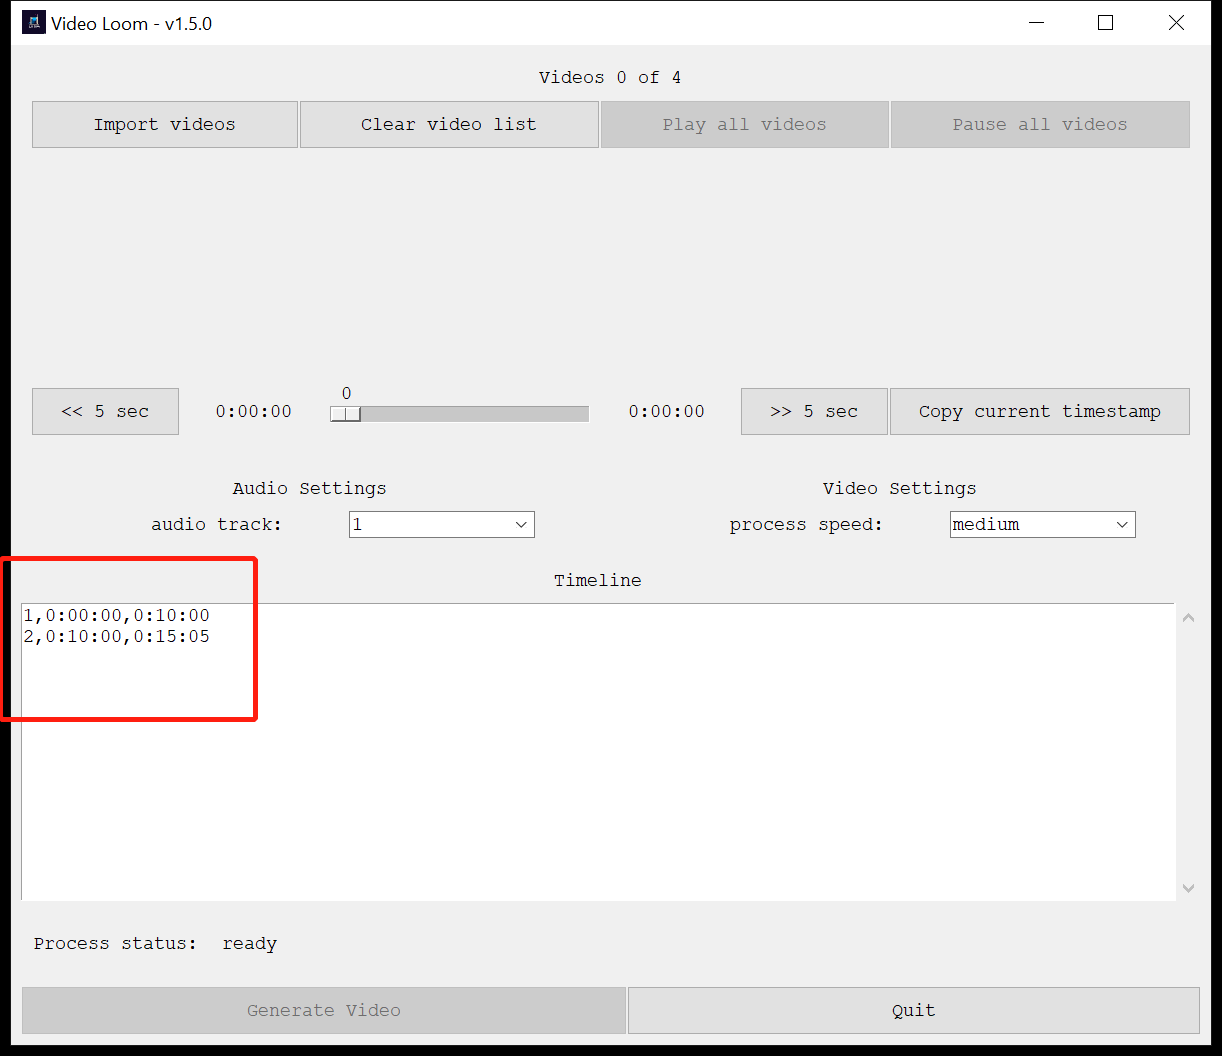
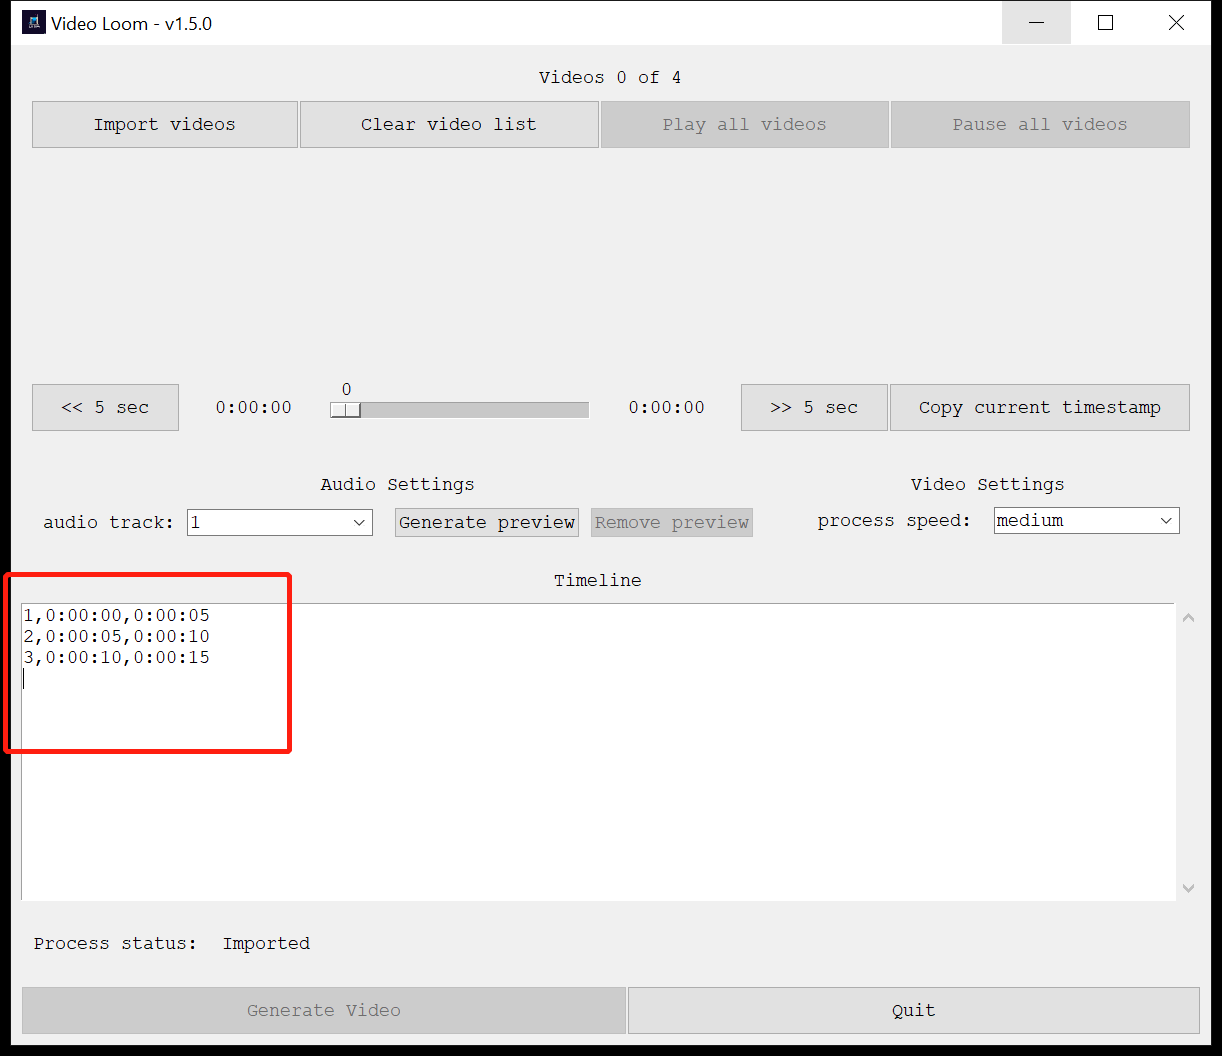
wip: allowing audio to be played while video is playing; updated user doc

diff --git a/src/video_renderer_frame.py b/src/video_renderer_frame.py
@@ -1,7 +1,8 @@
 import os
+import pygame
 from tkinter import ttk
-import tkinter as tk
 from tkVideoPlayer import TkinterVideo
+from pdb import set_trace
 
 
 # video renderer
@@ -16,6 +17,10 @@ class VideoRendererFrame(ttk.Frame):
         self.columnconfigure(2, weight=1)
         self.columnconfigure(3, weight=1)
 
+        # pygame
+        pygame.init()
+        self.mixer = pygame.mixer
+
     def refresh(self):
         # dynamically create video player instances
         self.videoplayers = []
@@ -26,14 +31,32 @@ class VideoRendererFrame(ttk.Frame):
                              padx=(10), pady=(20))
             self.videoplayers.append(videoplayer)
 
+    def load_audio_preview(self):
+        if self.master.master.settings_component.audio_setting_component.has_audio_preview():
+            self.mixer.music.load(
+                self.master.master.settings_component.audio_setting_component.get_audio_preview())
+
     def play_all(self):
         self.master.master.status_component.set_and_log_status(
             "playing all videos")
         for videoplayer in self.videoplayers:
             videoplayer.play()
 
+        # audio
+        if self.mixer.music.get_pos() == -1:
+            self.load_audio_preview()
+            self.mixer.music.play()
+        else:
+            self.mixer.music.unpause()
+
     def pause_all(self):
         self.master.master.status_component.set_and_log_status(
             "pausing all videos")
         for videoplayer in self.videoplayers:
             videoplayer.pause()
+
+        # audio
+        self.mixer.music.pause()
+
+    def seek(self, value):
+        self.mixer.music.set_pos(value)

diff --git a/src/audio_setting_frame.py b/src/audio_setting_frame.py
@@ -47,7 +47,7 @@ class AudioSettingFrame(ttk.Frame):
         self.component_refresh()
 
     def component_refresh(self, _=None):
-        if os.path.exists(FileUtils.get_file_path(self.get_audio_preview_filename())):
+        if self.has_audio_preview():
             self.generate_audio_preview_button["state"] = "disable"
             self.remove_audio_preview_button["state"] = "enable"
         else:
@@ -60,12 +60,20 @@ class AudioSettingFrame(ttk.Frame):
     def get_audio_preview_filename(self):
         return f"audio_preview_{self.get_audio_track()}.mp3"
 
+    def get_audio_preview(self):
+        return FileUtils.get_file_path(self.get_audio_preview_filename())
+
+    def has_audio_preview(self):
+        return os.path.exists(self.get_audio_preview())
+
     def remove_audio_preview(self):
-        if os.path.exists(FileUtils.get_file_path(self.get_audio_preview_filename())):
+        if self.has_audio_preview():
             os.remove(self.get_audio_preview_filename())
         self.component_refresh()
 
     def generate_audio_preview(self):
+        self.master.master.status_component.set_and_log_status(
+            "Generating audio preview, please wait ...")
         video_list = self.master.master.video_component.video_list
 
         # no videos imported
@@ -80,3 +88,5 @@ class AudioSettingFrame(ttk.Frame):
 
         # refresh app state
         self.master.master.app_refresh()
+        self.master.master.status_component.set_and_log_status(
+            f"Audio preview generated for audio track {self.get_audio_track()}")

diff --git a/src/video_control_frame.py b/src/video_control_frame.py
@@ -64,6 +64,9 @@ class VideoControlFrame(ttk.Frame):
                 video_player.seek(int(self.progress_slider.get()) + value)
             self.progress_value.set(self.progress_slider.get() + value)
 
+        # audio
+        self.master.video_renderer_component.seek(self.progress_value.get())
+
     def update_duration(self, event):
         if self.video_player != None:
             duration = self.video_player.video_info()["duration"]

diff --git a/README.md b/README.md
@@ -43,6 +43,9 @@ TBD
   - <img src="./img/user_guide_1.png" width="450" height="450" />
 - click on "Play all videos" and "Pause all videos" to play all video files simutaneously
   - use skip -5 / +5 buttons to skip backward and forward
+  - (optional) if you want to play video with audio. Choose an audio track, then click on "generate preview" button under "Audio settings"
+    - <img src="./img/user_guide_3.png" width="450" height="450" />
+    - Wait till the application prompts you the preview generation is complete. Now when you play vidoes, you can hear the audio from the video simutenously
 - In the text box, type in the segments of the videos you want to trim
 
   - e.g. If you'd like to use 0:00:00 - 0:10:00 from video 1, and 0:10:00 - 0:15:05 from video 2. Then the text would look like:
